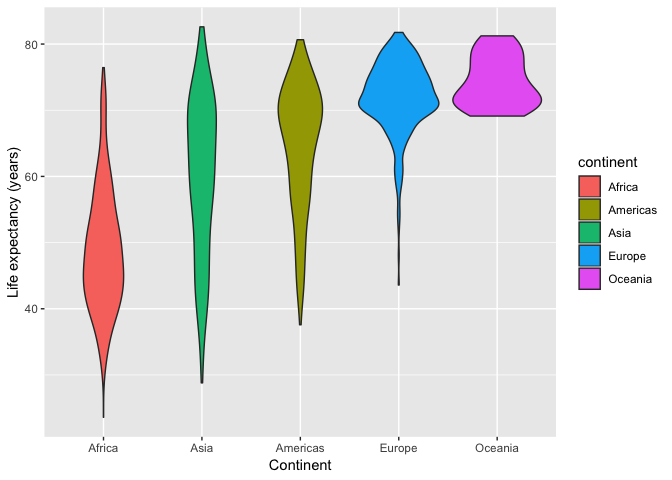
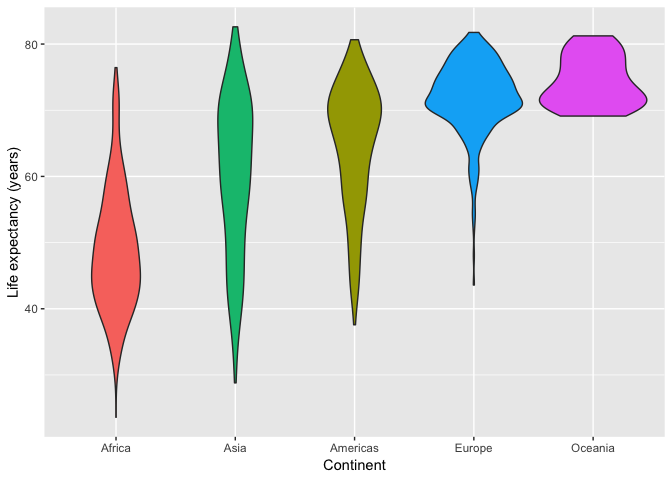
Part 2.5

diff --git a/hw05-exercise.md b/hw05-exercise.md
@@ -90,8 +90,8 @@ unique(dropO$continent) #check levels of continent in the new variable
 
 Now we can see that Oceania was removed as a factor, yay!
 
-Reorder the levels of country
-=============================
+Reorder the levels of continent
+-------------------------------
 
 For this part I will reorder the levels of continent by minimum life expectancy using `fct_reorder`.
 
@@ -104,9 +104,152 @@ gapminder %>%
   #Add an x label
   xlab("Continent") +
   #Add a y label
-  ylab("Life expectancy (years)")
+  ylab("Life expectancy (years)") +
+  #Remove the legend
+  guides(fill = FALSE)
 ```
 
 ![](hw05-exercise_files/figure-markdown_github/unnamed-chunk-6-1.png)
 
 Yay! We reordered the continents by minimum life expectancy.
+
+Part 2: File I/O
+================
+
+For this section I will create a new dataset by filtering the gapminder dataset for only Oceania, reordering by population size, write the file as a .csv to my local drive, and read the .csv back into R.
+
+``` r
+OceanaData <- gapminder %>% #make a new dataset
+  filter(continent == "Oceania") %>% #filter for Oceana
+  arrange(pop) #arrange by population
+
+write_csv(OceanaData, "OceanaData.csv") #write the new data to a csv
+
+readOceana <- read_csv("OceanaData.csv") #read the csv back in
+```
+
+    ## Parsed with column specification:
+    ## cols(
+    ##   country = col_character(),
+    ##   continent = col_character(),
+    ##   year = col_integer(),
+    ##   lifeExp = col_double(),
+    ##   pop = col_integer(),
+    ##   gdpPercap = col_double()
+    ## )
+
+Let's look at what the data looked like before we wrote it to a csv
+
+``` r
+OceanaData %>% 
+  kable()
+```
+
+| country     | continent |  year|  lifeExp|       pop|  gdpPercap|
+|:------------|:----------|-----:|--------:|---------:|----------:|
+| New Zealand | Oceania   |  1952|   69.390|   1994794|   10556.58|
+| New Zealand | Oceania   |  1957|   70.260|   2229407|   12247.40|
+| New Zealand | Oceania   |  1962|   71.240|   2488550|   13175.68|
+| New Zealand | Oceania   |  1967|   71.520|   2728150|   14463.92|
+| New Zealand | Oceania   |  1972|   71.890|   2929100|   16046.04|
+| New Zealand | Oceania   |  1977|   72.220|   3164900|   16233.72|
+| New Zealand | Oceania   |  1982|   73.840|   3210650|   17632.41|
+| New Zealand | Oceania   |  1987|   74.320|   3317166|   19007.19|
+| New Zealand | Oceania   |  1992|   76.330|   3437674|   18363.32|
+| New Zealand | Oceania   |  1997|   77.550|   3676187|   21050.41|
+| New Zealand | Oceania   |  2002|   79.110|   3908037|   23189.80|
+| New Zealand | Oceania   |  2007|   80.204|   4115771|   25185.01|
+| Australia   | Oceania   |  1952|   69.120|   8691212|   10039.60|
+| Australia   | Oceania   |  1957|   70.330|   9712569|   10949.65|
+| Australia   | Oceania   |  1962|   70.930|  10794968|   12217.23|
+| Australia   | Oceania   |  1967|   71.100|  11872264|   14526.12|
+| Australia   | Oceania   |  1972|   71.930|  13177000|   16788.63|
+| Australia   | Oceania   |  1977|   73.490|  14074100|   18334.20|
+| Australia   | Oceania   |  1982|   74.740|  15184200|   19477.01|
+| Australia   | Oceania   |  1987|   76.320|  16257249|   21888.89|
+| Australia   | Oceania   |  1992|   77.560|  17481977|   23424.77|
+| Australia   | Oceania   |  1997|   78.830|  18565243|   26997.94|
+| Australia   | Oceania   |  2002|   80.370|  19546792|   30687.75|
+| Australia   | Oceania   |  2007|   81.235|  20434176|   34435.37|
+
+Great, it filtered for Oceania and ordered by population, like I wanted.
+
+Now let's see what the dataset looks like after we read it back in:
+
+``` r
+readOceana %>% 
+  kable()
+```
+
+| country     | continent |  year|  lifeExp|       pop|  gdpPercap|
+|:------------|:----------|-----:|--------:|---------:|----------:|
+| New Zealand | Oceania   |  1952|   69.390|   1994794|   10556.58|
+| New Zealand | Oceania   |  1957|   70.260|   2229407|   12247.40|
+| New Zealand | Oceania   |  1962|   71.240|   2488550|   13175.68|
+| New Zealand | Oceania   |  1967|   71.520|   2728150|   14463.92|
+| New Zealand | Oceania   |  1972|   71.890|   2929100|   16046.04|
+| New Zealand | Oceania   |  1977|   72.220|   3164900|   16233.72|
+| New Zealand | Oceania   |  1982|   73.840|   3210650|   17632.41|
+| New Zealand | Oceania   |  1987|   74.320|   3317166|   19007.19|
+| New Zealand | Oceania   |  1992|   76.330|   3437674|   18363.32|
+| New Zealand | Oceania   |  1997|   77.550|   3676187|   21050.41|
+| New Zealand | Oceania   |  2002|   79.110|   3908037|   23189.80|
+| New Zealand | Oceania   |  2007|   80.204|   4115771|   25185.01|
+| Australia   | Oceania   |  1952|   69.120|   8691212|   10039.60|
+| Australia   | Oceania   |  1957|   70.330|   9712569|   10949.65|
+| Australia   | Oceania   |  1962|   70.930|  10794968|   12217.23|
+| Australia   | Oceania   |  1967|   71.100|  11872264|   14526.12|
+| Australia   | Oceania   |  1972|   71.930|  13177000|   16788.63|
+| Australia   | Oceania   |  1977|   73.490|  14074100|   18334.20|
+| Australia   | Oceania   |  1982|   74.740|  15184200|   19477.01|
+| Australia   | Oceania   |  1987|   76.320|  16257249|   21888.89|
+| Australia   | Oceania   |  1992|   77.560|  17481977|   23424.77|
+| Australia   | Oceania   |  1997|   78.830|  18565243|   26997.94|
+| Australia   | Oceania   |  2002|   80.370|  19546792|   30687.75|
+| Australia   | Oceania   |  2007|   81.235|  20434176|   34435.37|
+
+Great! It looks like the filtering and arranging survived through being written and read as a csv.
+
+Part 3: Visualization design
+============================
+
+In this section I will recreate a graph I made in hw01.
+
+My graph from hw01 looked like this:
+
+``` r
+plot(gapminder$continent, gapminder$lifeExp)
+```
+
+![](hw05-exercise_files/figure-markdown_github/unnamed-chunk-10-1.png)
+
+Let's see how we could clean this up.
+
+-   Use `ggplot2` instead of base R graphics
+-   Use violin plots over boxplots to better portray the shape of the data
+-   Reorder your data in a meaningful way, for this I ordered by median life expectancy
+-   Colour each continent differently
+-   Add meaningful x and y labels, and a title
+-   Remove unnecessary information, in this case, the legend
+-   Add a theme, I chose `minimal` to keep it clean
+
+``` r
+#Use gapminder dataset
+gapminder %>%
+#Plot continent vs lifeExp, reorder by lifeExp
+ggplot(aes(fct_reorder(continent, lifeExp, .fun = median), lifeExp, fill = continent)) +
+#Add a violin plot
+  geom_violin() +
+  #Add an x label
+  xlab("Continent") +
+  #Add a y label
+  ylab("Life expectancy (years)") +
+  #Add a title
+  ggtitle("Life expectancy by continent (1952-2007)") +
+  #Remove the legend
+  guides(fill = FALSE) +
+  #Add a theme
+  theme_minimal()
+```
+
+![](hw05-exercise_files/figure-markdown_github/unnamed-chunk-11-1.png)
